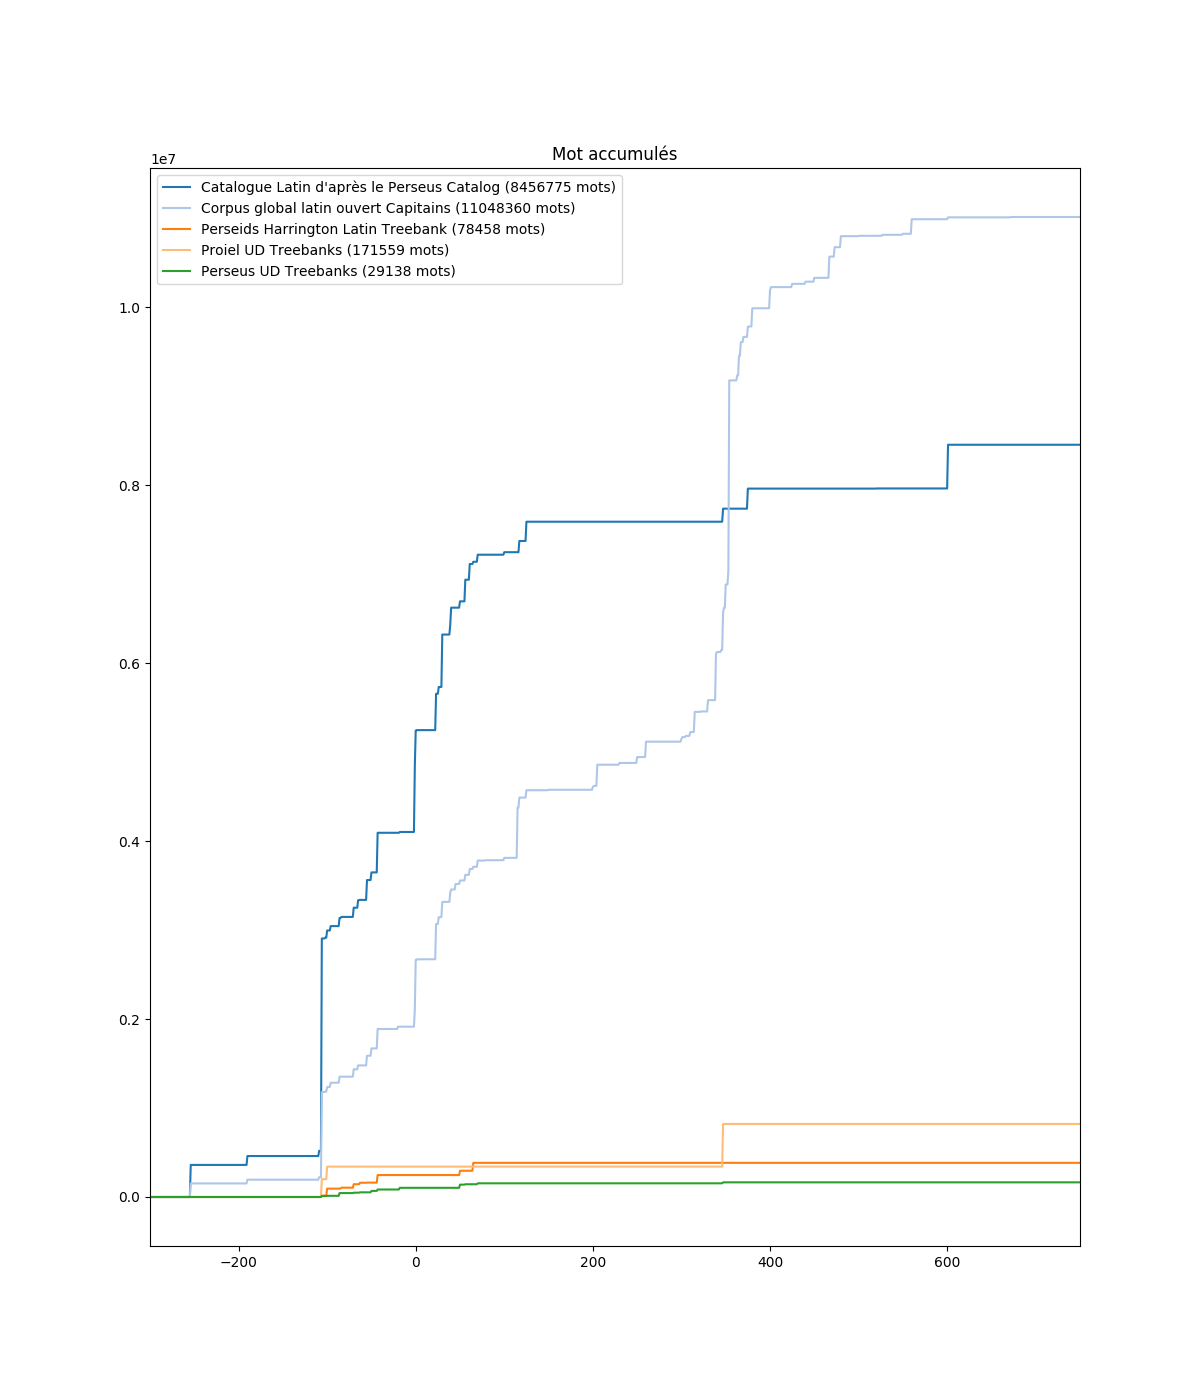
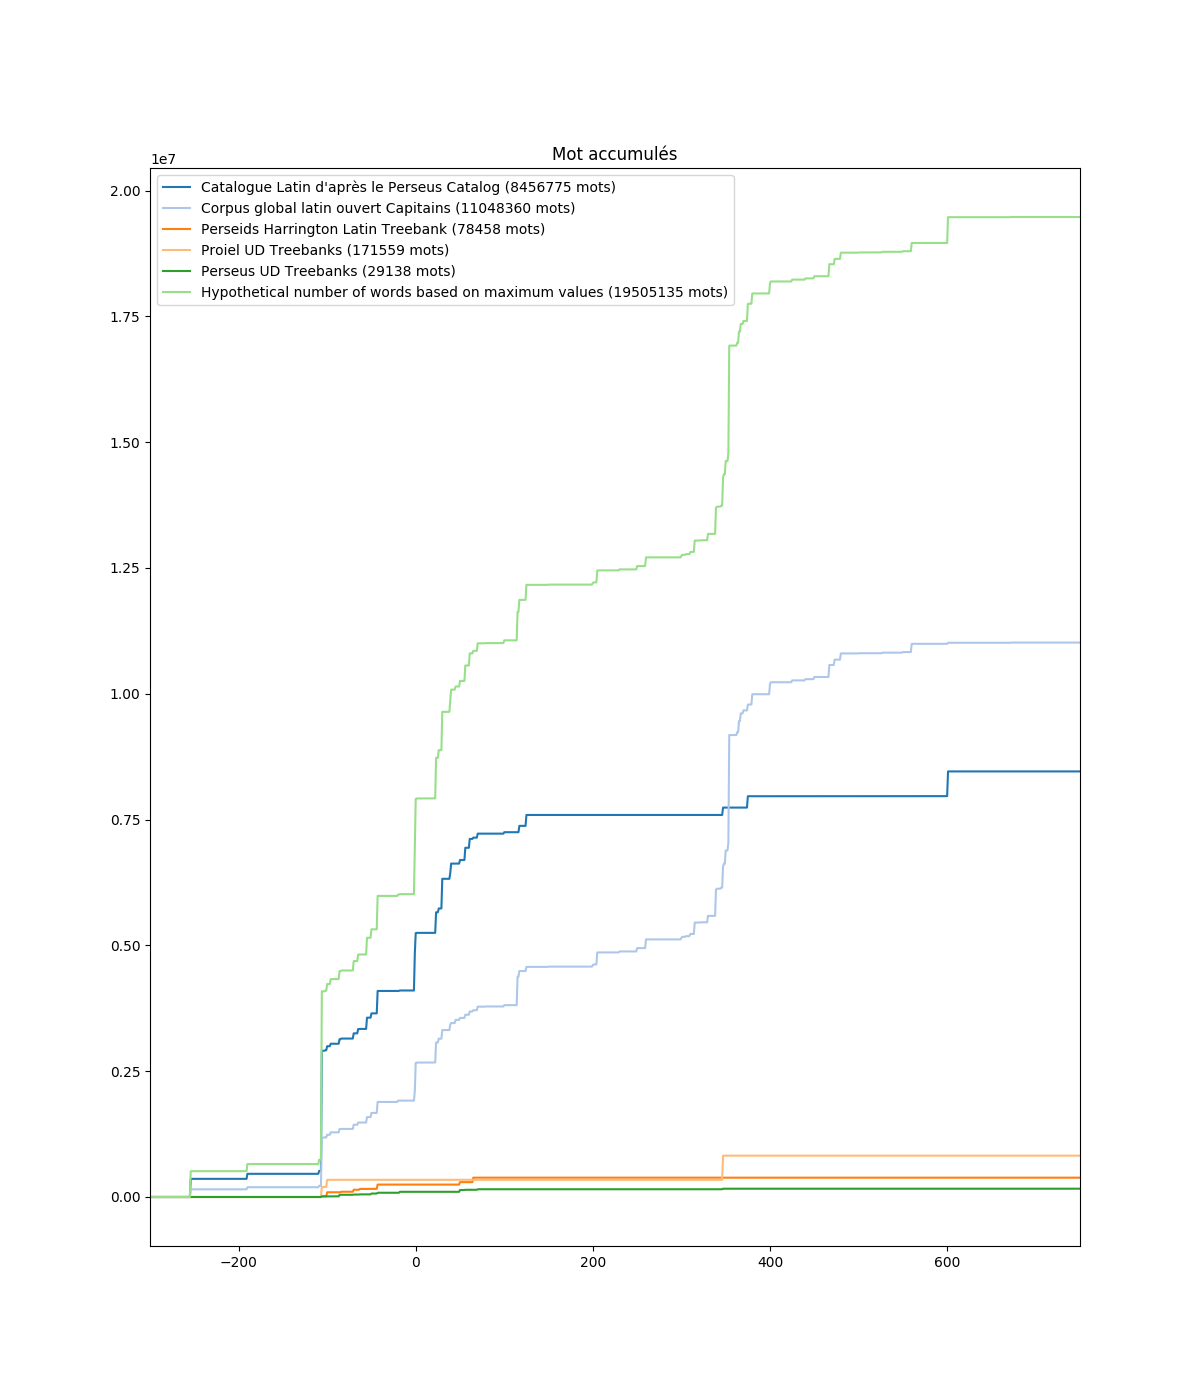
Added accumulation hypothetical

diff --git a/analysis/general_analysis/treebank_analysis.py b/analysis/general_analysis/treebank_analysis.py
@@ -113,7 +113,7 @@ def draw_series_graph(data, hypothetical):
         series=[
             (serie.name, serie.word_count, serie.accumulated_tokens)
             for serie in data
-        ],
+        ] + [(hypothetical.name, hypothetical.word_count, hypothetical.accumulated_tokens)],
         title="Mot accumulés",
         fname="results/analysis/treebank_analysis/treebank_accumulation.png"
     )

diff --git a/results/analysis/treebank_analysis/treebank_Perseus UD Treebanks.md b/results/analysis/treebank_analysis/treebank_Perseus UD Treebanks.md
@@ -1,14 +1,14 @@
 | Documents                                                        | Tokens     |
 | --                                                               | --         |
-| urn:cts:greekLit:tlg0031.tlg027.perseus-lat2                     | 2001       |
-| urn:cts:latinLit:phi0620.phi001.perseus-lat2                     | 2776       |
-| urn:cts:latinLit:phi0474.phi013.perseus-lat2                     | 1897       |
-| urn:cts:latinLit:phi0972.phi001.perseus-lat2                     | 5949       |
-| urn:cts:latinLit:phi0959.phi006.perseus-lat2                     | 2652       |
-| urn:cts:latinLit:phi1221.phi007.perseus-lat2                     | 708        |
-| urn:cts:latinLit:phi1348.abo012.perseus-lat2                     | 2046       |
-| urn:cts:latinLit:phi0690.phi003.perseus-lat2                     | 776        |
 | urn:cts:latinLit:phi0448.phi001.perseus-lat2                     | 352        |
+| urn:cts:latinLit:phi0474.phi013.perseus-lat2                     | 1897       |
 | urn:cts:latinLit:phi0631.phi001.perseus-lat2                     | 4999       |
-| urn:cts:latinLit:phi1351.phi005.perseus-lat2                     | 866        |
+| urn:cts:latinLit:phi0959.phi006.perseus-lat2                     | 2652       |
+| urn:cts:latinLit:phi0690.phi003.perseus-lat2                     | 776        |
+| urn:cts:greekLit:tlg0031.tlg027.perseus-lat2                     | 2001       |
 | urn:cts:latinLit:phi0975.phi001.perseus-lat2                     | 4116       |
+| urn:cts:latinLit:phi1221.phi007.perseus-lat2                     | 708        |
+| urn:cts:latinLit:phi1351.phi005.perseus-lat2                     | 866        |
+| urn:cts:latinLit:phi0972.phi001.perseus-lat2                     | 5949       |
+| urn:cts:latinLit:phi1348.abo012.perseus-lat2                     | 2046       |
+| urn:cts:latinLit:phi0620.phi001.perseus-lat2                     | 2776       |

diff --git a/results/analysis/treebank_analysis/treebank_Perseids Harrington Latin Treebank.md b/results/analysis/treebank_analysis/treebank_Perseids Harrington Latin Treebank.md
@@ -1,13 +1,13 @@
 | Documents                                                        | Tokens     |
 | --                                                               | --         |
-| urn:cts:latinLit:phi0474.phi024.perseus-lat2                     | 1809       |
 | urn:cts:latinLit:phi0690.phi003.perseus-lat2                     | 7996       |
-| urn:cts:latinLit:phi0474.phi013.perseus-lat2                     | 1293       |
 | urn:cts:latinLit:phi0448.phi001.perseus-lat2                     | 15652      |
-| urn:cts:latinLit:phi0972.phi001.perseus-lat2                     | 9910       |
+| urn:cts:latinLit:phi1276.phi001.perseus-lat2                     | 17681      |
 | urn:cts:latinLit:phi1221.phi007.perseus-lat2                     | 3080       |
 | urn:cts:latinLit:phi0660.phi003.perseus-lat2                     | 323        |
+| urn:cts:latinLit:phi0472.phi001.perseus-lat2                     | 2266       |
+| urn:cts:latinLit:phi0972.phi001.perseus-lat2                     | 9910       |
+| urn:cts:latinLit:phi0474.phi013.perseus-lat2                     | 1293       |
 | urn:cts:latinLit:phi0959.phi006.perseus-lat2                     | 14240      |
 | urn:cts:latinLit:phi0959.phi001.perseus-lat2                     | 4208       |
-| urn:cts:latinLit:phi1276.phi001.perseus-lat2                     | 17681      |
-| urn:cts:latinLit:phi0472.phi001.perseus-lat2                     | 2266       |
+| urn:cts:latinLit:phi0474.phi024.perseus-lat2                     | 1809       |
